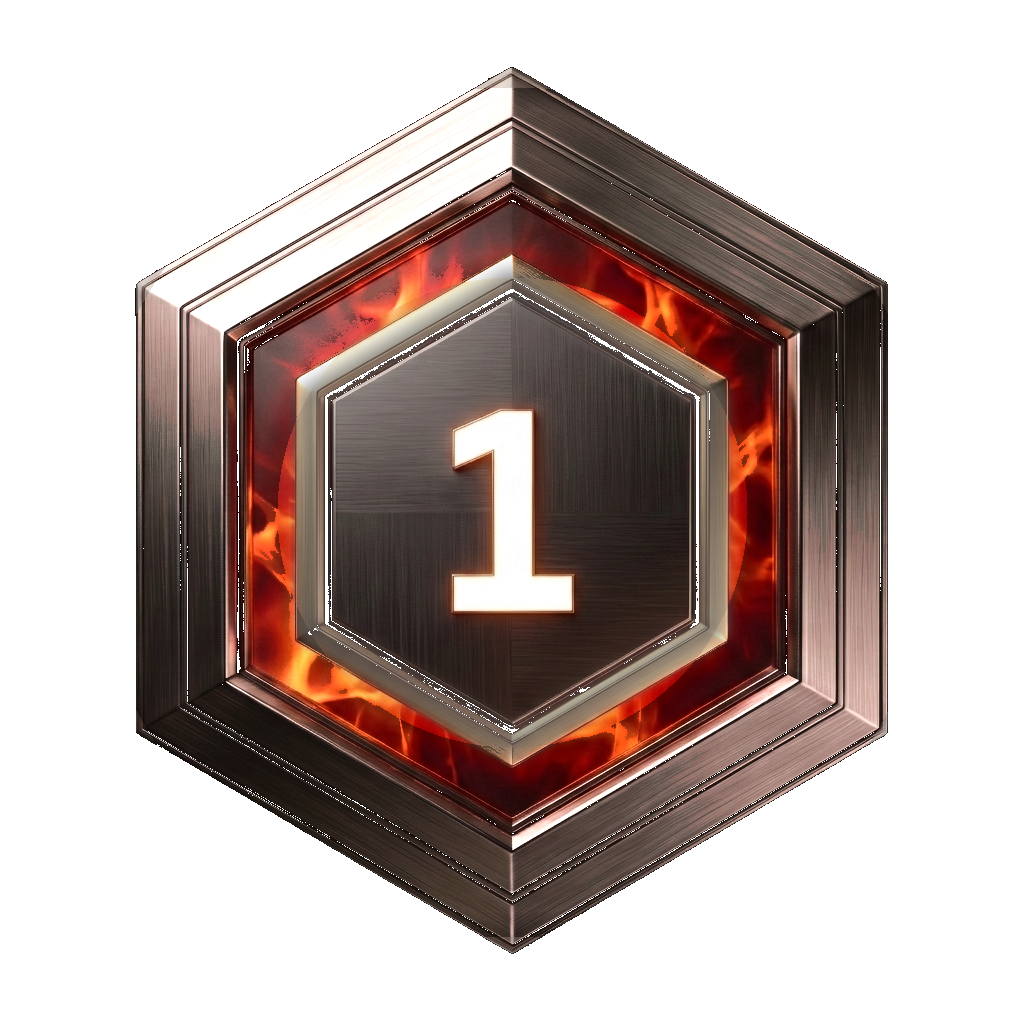
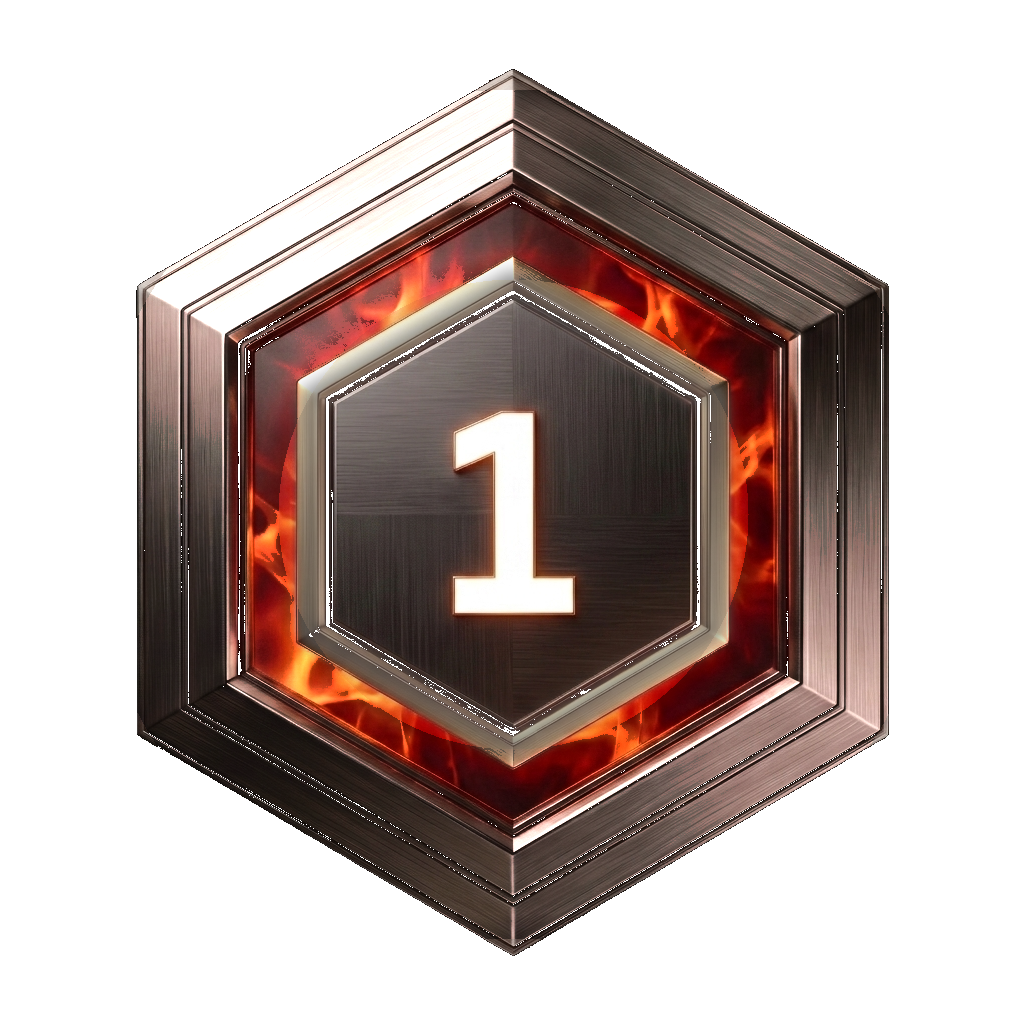
v2.5.42 : Centered all 10 Fire Crystal badge PNGs and aligned Furnace Level display

diff --git a/main.js b/main.js
@@ -198,7 +198,7 @@ window.getFurnaceIconHtml = (level, size = 48) => {
      const canvasOffset = Math.round((canvasSize - size) / 2);
      return `<span class="fc-badge-stage" data-fc="${fcNum}" style="display:inline-flex; align-items:center; justify-content:center; position:relative; vertical-align:middle; cursor:pointer; width:${size}px; height:${size}px; user-select:none; -webkit-user-select:none;">
        <canvas class="fc-flame-canvas" width="${canvasSize}" height="${canvasSize}" style="position:absolute; top:-${canvasOffset}px; left:-${canvasOffset}px; width:${canvasSize}px; height:${canvasSize}px; pointer-events:none; z-index:3;"></canvas>
-       <img src="./badges/fc${fcNum}.png?v=1.95.3" onerror="this.onerror=null; this.src='/badges/fc${fcNum}.png';" alt="Fire Crystal ${fcNum}" title="Fire Crystal ${fcNum} (FC ${fcNum})" style="width:${size}px; height:${size}px; object-fit:contain; filter:drop-shadow(0 0 ${Math.max(6, Math.round(size/3.5))}px ${glow}); vertical-align:middle; transition:transform 0.25s cubic-bezier(0.175, 0.885, 0.32, 1.275); position:relative; z-index:2;" loading="lazy">
+       <img src="./badges/fc${fcNum}.png?v=2.5.42" onerror="this.onerror=null; this.src='/badges/fc${fcNum}.png?v=2.5.42';" alt="Fire Crystal ${fcNum}" title="Fire Crystal ${fcNum} (FC ${fcNum})" style="width:${size}px; height:${size}px; object-fit:contain; filter:drop-shadow(0 0 ${Math.max(6, Math.round(size/3.5))}px ${glow}); vertical-align:middle; transition:transform 0.25s cubic-bezier(0.175, 0.885, 0.32, 1.275); position:relative; z-index:2;" loading="lazy">
      </span>`;
   }
 
@@ -15684,7 +15684,7 @@ window.resetBearTrapEvent = async () => {
                   </div>
                   <div class="id-card-stat-row" style="display:flex; justify-content:space-between; align-items:center; background:rgba(255,255,255,0.03); padding:8px 12px; border-radius:8px;">
                       <span style="color:var(--text-muted); font-size:13px; text-transform:uppercase; letter-spacing:1px;">Furnace Level</span>
-                      <span style="color:var(--text-main); font-weight:bold; font-size:20px; text-align:right; display:flex; align-items:center;">${window.getFurnaceIconHtml(furnaceLevelStr, 80)}</span>
+                      <span style="color:var(--text-main); font-weight:bold; font-size:20px; text-align:right; display:flex; align-items:center; justify-content:center;">${window.getFurnaceIconHtml(furnaceLevelStr, 76)}</span>
                   </div>
                   
                   <div class="id-card-stat-row" style="display:flex; justify-content:space-between; align-items:center; background:rgba(255,255,255,0.03); padding:8px 12px; border-radius:8px;">

diff --git a/index.html b/index.html
@@ -38,7 +38,7 @@
               👁 <span id="views-counter">...</span>
             </span>
             <span id="versionBadge" title="Click to view Changelog" style="background: rgba(168, 85, 247, 0.2); color: #a855f7; padding: 2px 6px; border-radius: 10px; font-weight: bold; display:flex; align-items:center; gap:4px; cursor:pointer;">
-              v2.5.41
+              v2.5.42
             </span>
             <span id="navbar-user-indicator" onclick="if(window.views && window.views.account) window.views.account();" title="Click to open Chief Profile" style="display:none; background: rgba(59, 130, 246, 0.18); border: 1px solid rgba(59, 130, 246, 0.4); color: #60a5fa; padding: 2px 8px; border-radius: 10px; font-weight: bold; align-items:center; gap:4px; max-width: 150px; white-space: nowrap; overflow: hidden; text-overflow: ellipsis; cursor: pointer;">
             </span>

diff --git a/CHANGELOG.md b/CHANGELOG.md
@@ -1,5 +1,10 @@
 # CHANGELOG
 
+## [2.5.42] - 2026-08-14
+- Removed off-center stray sparkle pixels in the transparent borders of Fire Crystal badge images `fc1.png` through `fc10.png`.
+- Re-encoded and recalibrated all 10 Fire Crystal badge PNG graphics to exact `(512.0, 512.0)` geometric dead center.
+- Aligned and centered the Furnace Level display inside the Account Hub profile ID card.
+
 ## [2.5.41] - 2026-08-14
 - Added full translation dictionary for Century Games API error code `15030` and `"未登录"` ("30-Day session token expired. Please enter a fresh in-game code to renew.").
 - Resolved duplicate `[Code X]` prefix stacking in alert toasts and added a universal Chinese character fallback translation.

diff --git a/public/CHANGELOG.md b/public/CHANGELOG.md
@@ -1,5 +1,10 @@
 # CHANGELOG
 
+## [2.5.42] - 2026-08-14
+- Removed off-center stray sparkle pixels in the transparent borders of Fire Crystal badge images `fc1.png` through `fc10.png`.
+- Re-encoded and recalibrated all 10 Fire Crystal badge PNG graphics to exact `(512.0, 512.0)` geometric dead center.
+- Aligned and centered the Furnace Level display inside the Account Hub profile ID card.
+
 ## [2.5.41] - 2026-08-14
 - Added full translation dictionary for Century Games API error code `15030` and `"未登录"` ("30-Day session token expired. Please enter a fresh in-game code to renew.").
 - Resolved duplicate `[Code X]` prefix stacking in alert toasts and added a universal Chinese character fallback translation.
